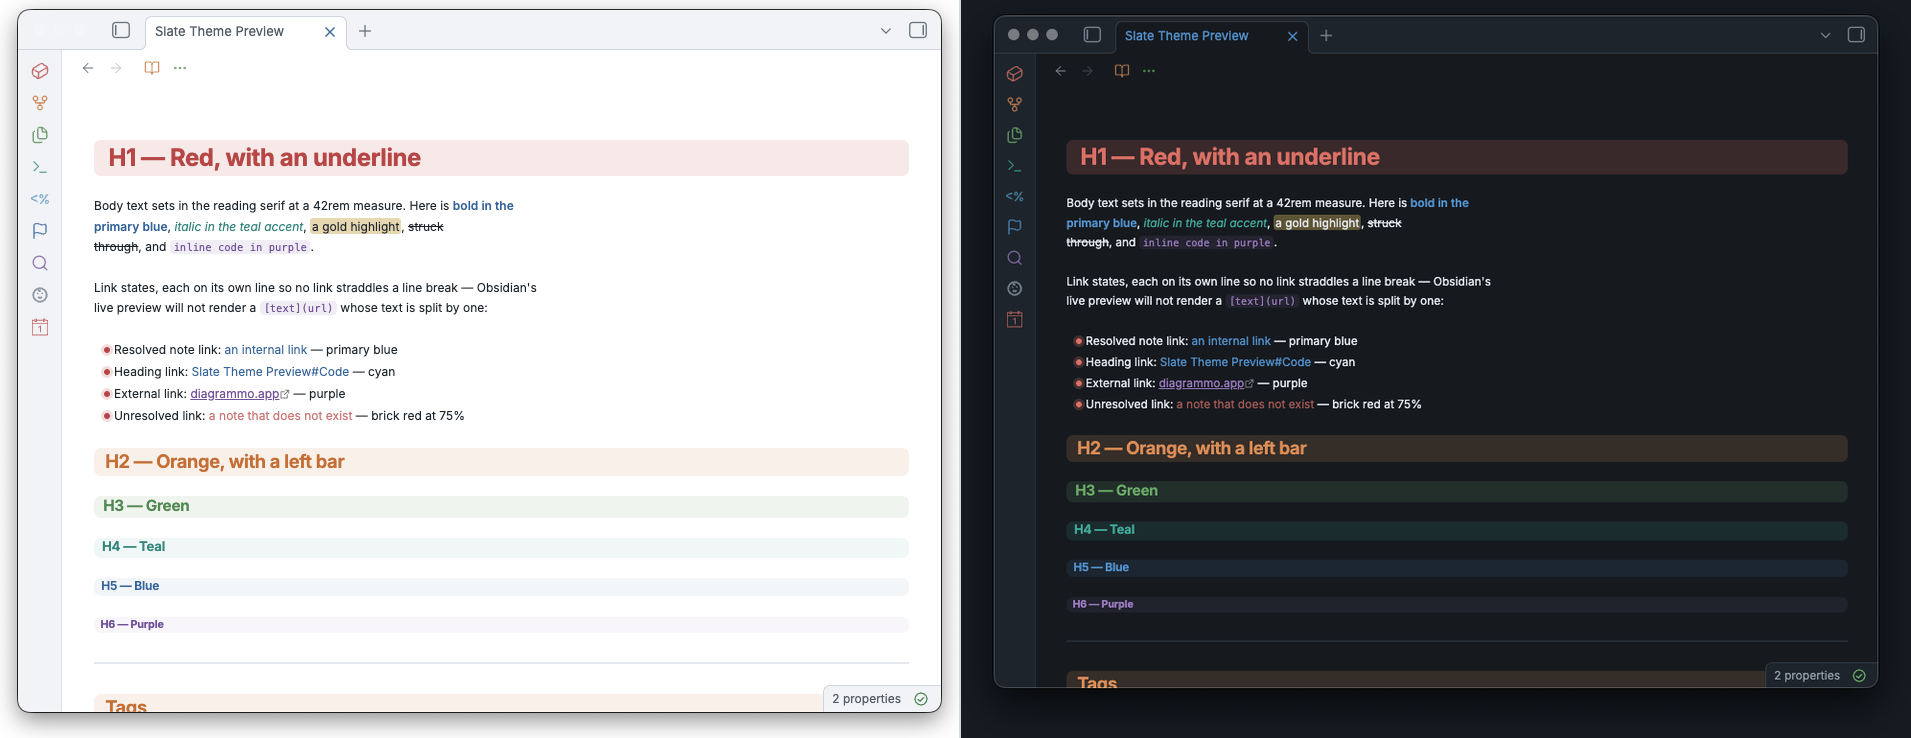
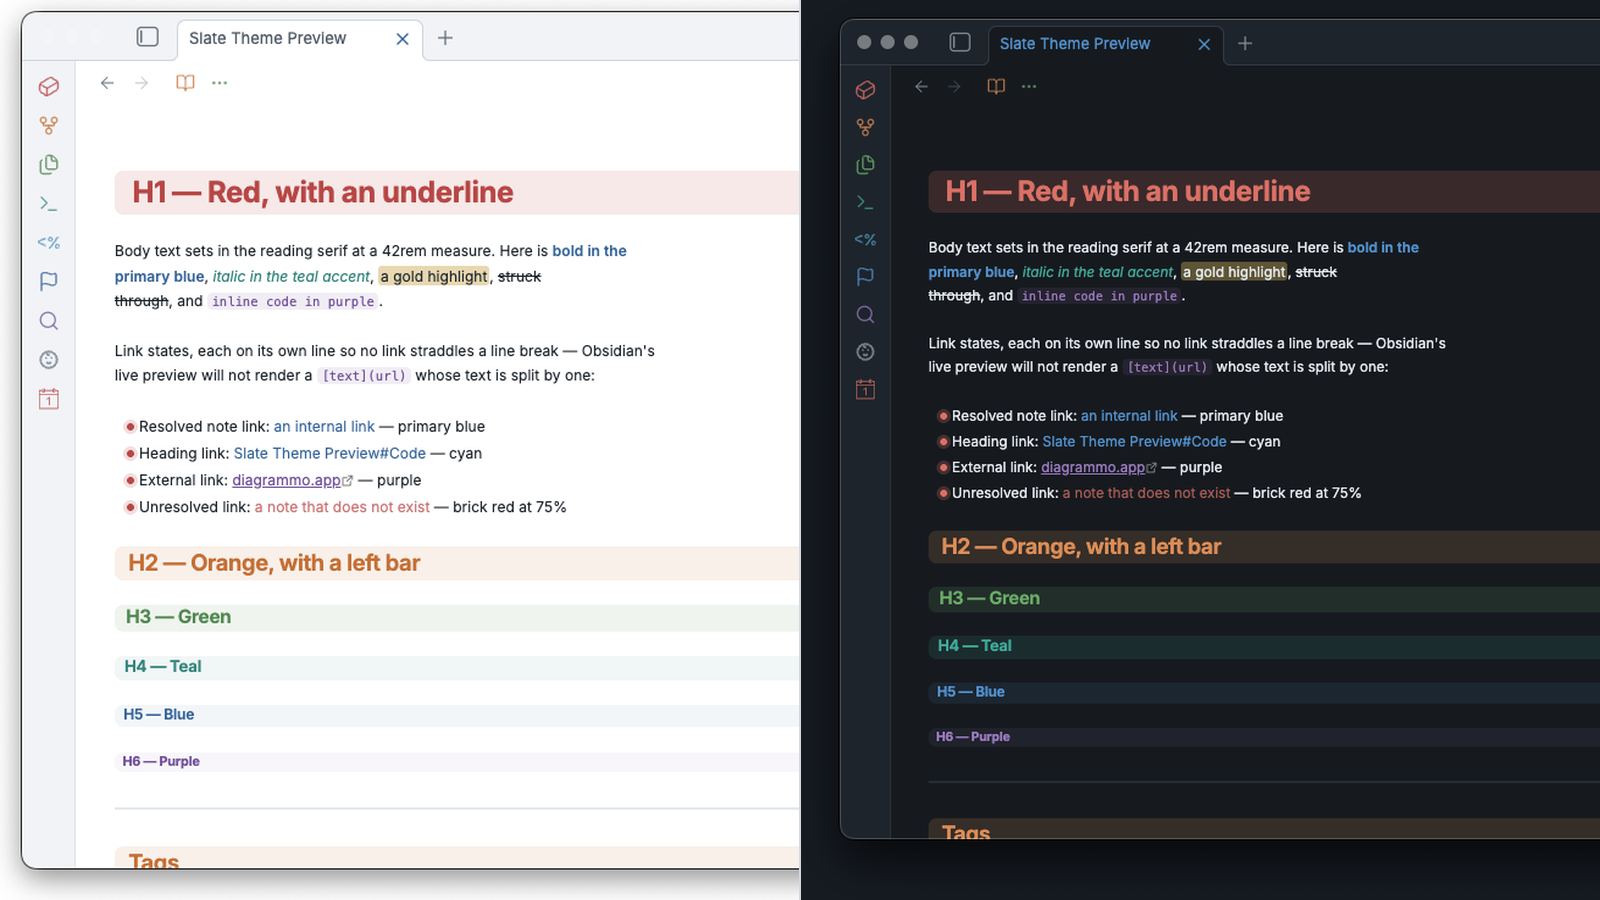
fix: screenshot must be 16:9, not 2:1
The submission template requires 16:9 and recommends 512x288; the previous
composite was 2.58:1 and would have been bounced. Rebuilt at 1600x900.

Fitting whole windows inside 16:9 leaves the card mostly background -- the
captures are 1.30:1 and each half is 0.89:1 -- so each half is filled with a
cover crop taken from the right, keeping the rail and the start of every line
and dropping only the empty end of the measure.

diff --git a/RELEASING.md b/RELEASING.md
@@ -19,19 +19,22 @@ The theme name must be unique across the community list, and must not contain
 This is the one step that cannot be automated — it has to be taken from a
 running Obsidian.
 
-- Obsidian's guidance is a wide screenshot, roughly 2:1, showing the theme in
-  actual use rather than a swatch grid
+- **16:9 is required**, not a suggestion — the submission template states it,
+  and 512x288 is the recommended size for fast loading. Anything else will be
+  bounced
 - Show what makes this theme itself: the heading ladder, a tinted file
   explorer with a few nesting levels, colored callouts, and a mermaid diagram
-- Take it in **light** mode — the community browser renders cards on a light
-  ground — but consider a second dark shot in the README
+- Either mode is fine; a light/dark pairing uses the single slot better when
+  the two modes are genuinely different designs
 - Save as `screenshot.png` at the repo root
 
-The current one is a composite: light and dark captured at identical framing,
-each cropped to its window shadow, flattened onto its own mode's background so
-the shadow reads naturally, and joined with a hairline divider. The sources are
-kept in `docs/`. To regenerate after re-capturing, see the compositing step in
-the commit that added it.
+The current one is a 1600x900 composite: light and dark captured at identical
+framing, each scaled to *cover* its half of the canvas and cropped from the
+right. Fitting whole windows inside a 16:9 frame leaves the card mostly empty —
+the captures are 1.30:1 while each half is 0.89:1 — and cropping from the right
+keeps the rail and the start of every line, dropping only the empty end of the
+measure. Sources are in `docs/`; the compositing script is in the commit that
+added it.
 
 ## Cutting a release
 
